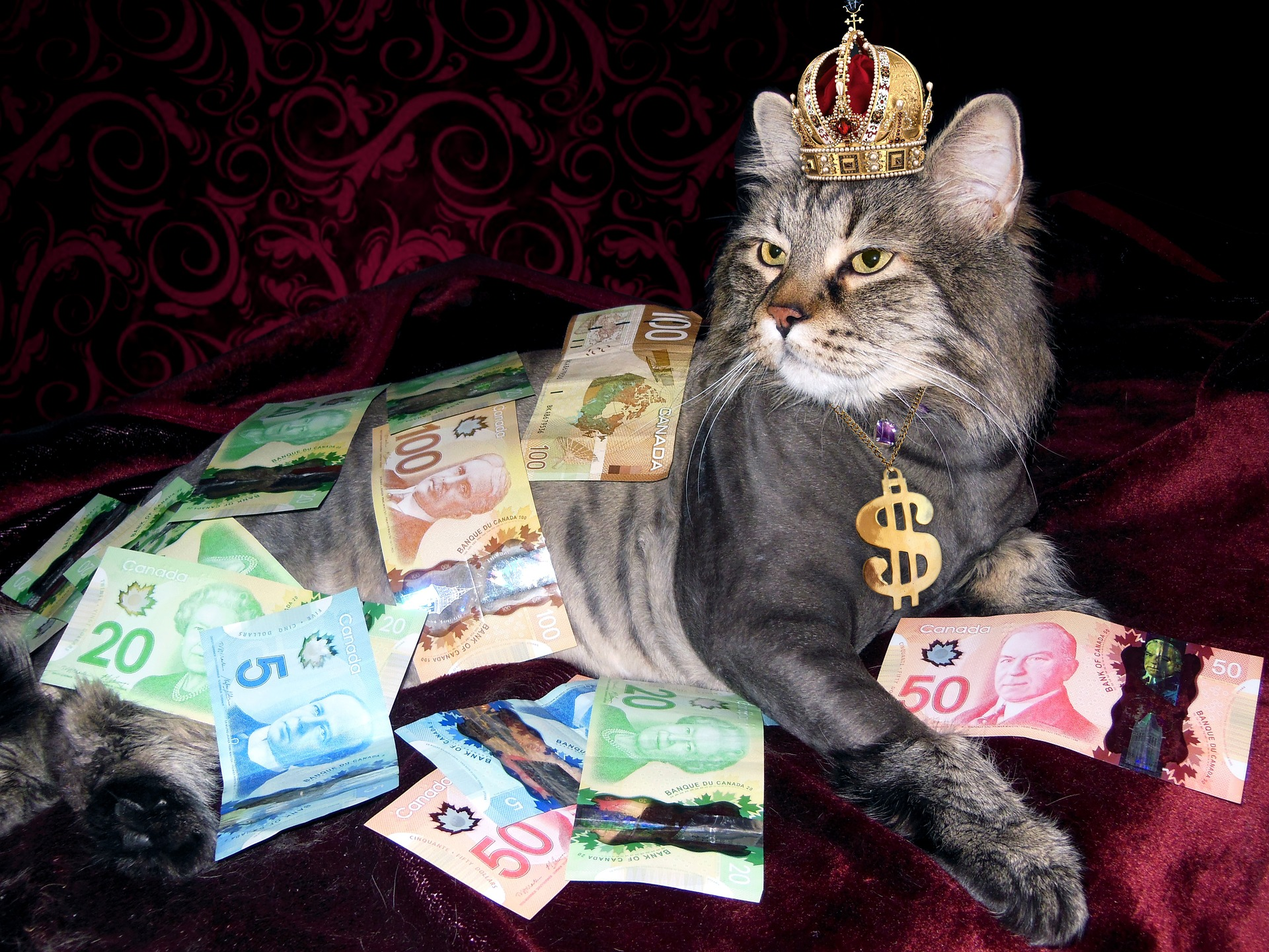
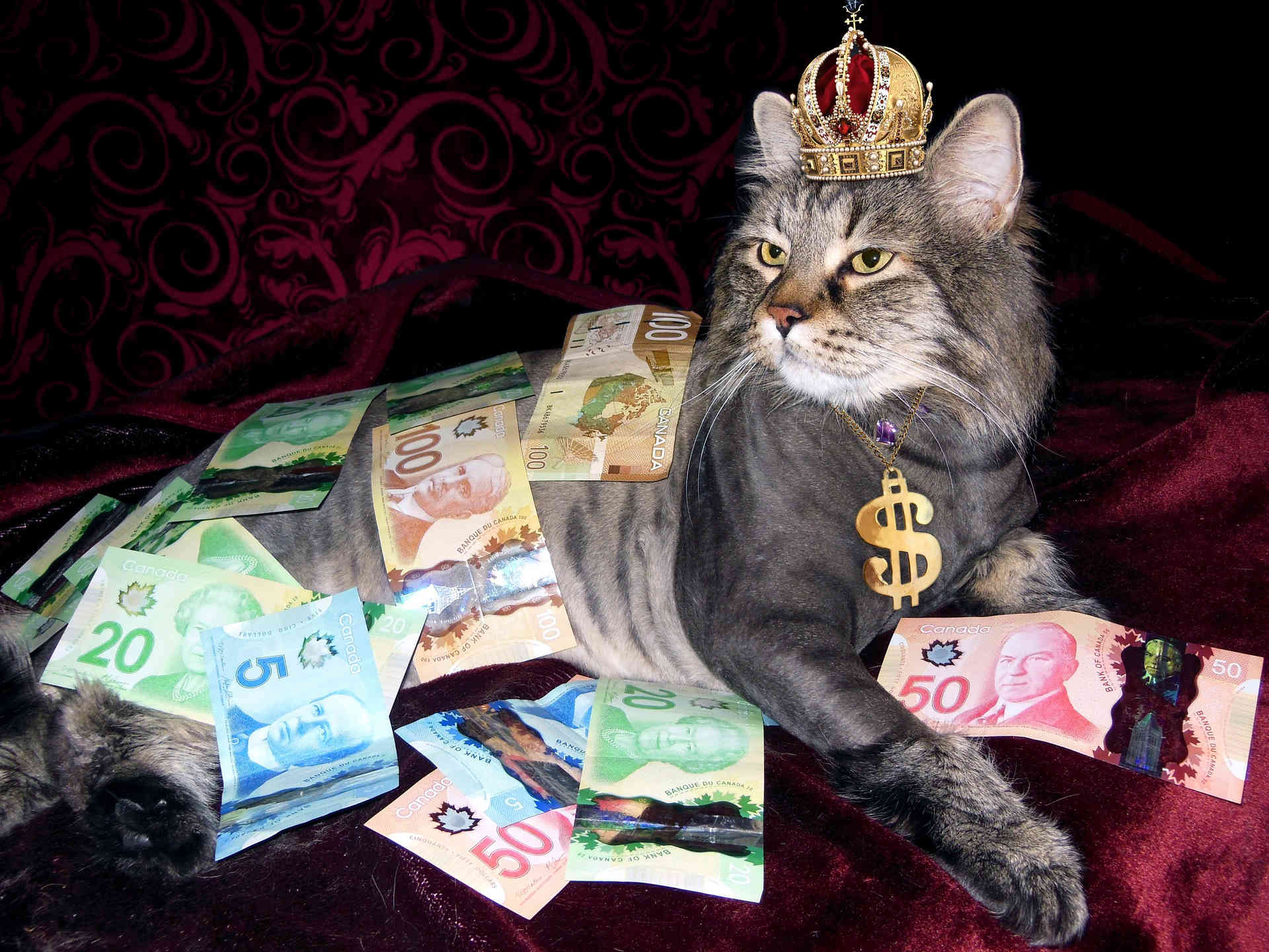
added images, hid coins in applications section

diff --git a/index.html b/index.html
@@ -52,44 +52,17 @@
       </section>
 
       <section>
-        <img src="styles/cat-money.jpg" alt="" class="cover">
+        <img src="styles/cat-money.jpg" alt="" class="cover" style="object-position: 65% 30%">
         <div class="cover" style="background-color: rgba(0, 0, 0, 0.6)">
           <h1 class="highlighted">What is money?</h1>
-          <!--
-<li>
-<ul janus-timeline janus-future="down">Durable</ul>
-<ul janus-timeline janus-future="down">Portable</ul>
-<ul janus-timeline janus-future="down">Fungible</ul>
-<ul janus-timeline janus-future="down">Divisible</ul>
-<ul janus-timeline janus-future="down">Scarce</ul>
-<ul janus-timeline janus-future="down">Acceptable</ul>
-</li>
--->
-          <!--
-<table class="yesnomaybe" style="font-size: 6vh; border-width: 1.5em 1em 0 0; margin: auto;">
-<thead>
-<tr>
-<th></th>
-<th><div>Durable</div></th>
-<th><div>Portable</div></th>
-<th><div>Divisible</div></th>
-<th><div>Fungible</div></th>
-<th><div>Scarce</div></th>
-</tr>
-</thead>
-<tbody>
-<tr>
-<th>Medium of<br>Exchange</th><td class="yes"></td><td class="yes"></td><td></td><td class="yes"></td><td></td>
-</tr>
-<tr>
-<th>Unit of<br>Account</th><td></td><td></td><td class="yes"></td><td class="yes"></td><td></td>
-</tr>
-<tr>
-<th>Store of<br>Value</th><td></td><td></td><td></td><td class="yes"></td><td class="yes"></td>
-</tr>
-</tbody>
-</table>
--->
+          <li>
+            <ul janus-timeline janus-future="down">Durable</ul>
+            <ul janus-timeline janus-future="down">Portable</ul>
+            <ul janus-timeline janus-future="down">Fungible</ul>
+            <ul janus-timeline janus-future="down">Divisible</ul>
+            <ul janus-timeline janus-future="down">Scarce</ul>
+            <ul janus-timeline janus-future="down">(Acceptable)</ul>
+          </li>
         </div>
         <div class="notes">
           <u>Medium of exchange:</u> portable, durable, fungible
@@ -217,12 +190,12 @@
         <div class="notes">Digital items can be duplicated; how can I send you something the way I do in the physical world? The people on the island of Yap had the right idea: use a ledger.</div>
       </section>
 
-      <section>
+      <section janus-past="flip-h">
         <img src="styles/heath.jpg" alt="" class="contain">
         <div class="notes">Sorry, wrong Ledger.</div>
       </section>
 
-      <section>
+      <section janus-future="flip-h">
         <table>
           <tbody style="text-align: right;">
             <tr>
@@ -258,7 +231,7 @@
 
       <section>
         <img src="styles/padlock.jpg" alt="" class="cover">
-        <h1 style="color: #f7931a; font-weight: 900; text-shadow: 0 0 2em black; -webkit-text-stroke: 0.025em white">Cryptography</h1>
+        <h1 class="highlighted">Cryptography</h1>
         <div class="notes">We can use public and private keys to control balances in an anonymous ledger.</div>
       </section>
 
@@ -323,9 +296,9 @@
         <h1>How to decentralize?</h1>
       </section>
 
-      <section janus-future="up" janus-past="up">
+      <section janus-future="up" janus-past="up" style="text-shadow: 0.1em 0.1em 0.2em black;">
         <img src="styles/oprah-giveaway.jpg" alt="" class="cover">
-        <h2>You get a ledger! You get a ledger!</h2>
+        <h2><em>You</em> get a ledger! <em>You</em> get a ledger!</h2>
         <h1>YOU ALL GET A LEDGER!!</h1>
         <div class="notes">Give <em>everyone</em> their own copy of the ledger. When you make a change to the ledger, send it out to everyone so all the ledgers stay up to date. Use cryptographic keys for privacy, and so that one person can't change another person's balance.</div>
       </section>
@@ -338,7 +311,7 @@
           Analogous problem:</div>
       </section>
 
-      <section style="text-shadow: 0 0 2em black;">
+      <section style="text-shadow: 0.1em 0.1em 0.2em black;">
         <img src="styles/byzantine-fresca.jpg" alt="" class="cover">
         <h2>the</h2>
         <h1><em>Byzantine Generals&rsquo;</em></h1>
@@ -356,8 +329,8 @@
       </section>
 
       <section>
-        <img src="styles/envelopes.jpg" alt="" class="cover">
-        <h1 style="padding-top: 3em; text-shadow: 0 0 2em black">Proof of Work</h1>
+        <img src="styles/coal-mining.jpg" alt="" class="cover" style="object-position: 50% 20%">
+        <h1 class="highlighted">Proof of Work</h1>
         <div class="notes">In 1997 this guy Adam Back came up with <em>HashCash</em>. The idea is that an email client would brute-force a certain amount of zeros as the output to a cryptographic hashing algorithm.</div>
       </section>
 
@@ -388,33 +361,41 @@
       </section>
 
       <section>
-        <h1 style="text-shadow: 0 0 2em black">Trusted Third Parties</h1>
+        <h1 style="text-shadow: 0.1em 0.1em 0.2em black">Trusted Third Parties</h1>
         <img janus-timeline janus-future="big" src="styles/no_sign.svg" alt="" class="contain">
       </section>
 
       <section>
+        <img src="styles/bank.jpg" alt="" class="cover">
+        <div class="cover" style="background-color: rgba(0,0,0,0.5)"></div>
         <h1>Central banks &amp;<br>payment services</h1>
         <div class="coins">
           <i class="cc BTC"></i>
           <i class="cc DASH"></i>
           <i class="cc XMR"></i>
           <i class="cc LTC"></i>
+          <i class="cc XRP"></i>
         </div>
         <div class="notes">Blockchains' value as money is at the heart of their incentives. Private blockchains that don't try to be money face serious challenges. The ability to transfer value globally without using or trusting a third party can save money and time, especially for traditionally burdensome cases like international remittance.</div>
       </section>
 
       <section>
+        <img src="styles/copyright-office.jpg" alt="" class="cover">
+        <div class="cover" style="background-color: rgba(0,0,0,0.5)"></div>
         <h1>Register of deeds,<br>copyright office</h1>
         <div class="coins">
           <i class="cc BTC"></i>
+          <i class="cc ETC"></i>
           <i class="cc FCT"></i>
           <i class="cc EMC"></i>
         </div>
         <div class="notes">Embedding a hash in the blockchain demonstrates an item's existence at point in the past.
-          (Bitcoin, Factoids, Emercoin)</div>
+          (Bitcoin [Stampery, others], Ethereum Classic [Stampery, others], Factoids, Emercoin)</div>
       </section>
 
       <section>
+        <img src="styles/clouds.jpg" alt="" class="cover">
+        <div class="cover" style="background-color: rgba(0,0,0,0.5)"></div>
         <h1>Cloud storage providers</h1>
         <div class="coins">
           <i class="cc MAID"></i>
@@ -426,6 +407,8 @@
       </section>
       
       <section>
+        <img src="styles/servers.jpg" alt="" class="cover">
+        <div class="cover" style="background-color: rgba(0,0,0,0.5)"></div>
         <h1>DNS providers</h1>
         <div class="coins">
           <i class="cc NMC"></i>
@@ -435,23 +418,30 @@
       </section>
       
       <section>
+        <img src="styles/user%20faces.png" alt="" class="contain">
+        <div class="cover" style="background-color: rgba(0,0,0,0.5)"></div>
         <h1>Social networks</h1>
         <div class="coins">
           <i class="cc STEEM"></i>
-          <i class="cc SYN"></i>
+          <i class="cc AMP"></i>
+          <i class="cc ETH"></i>
         </div>
-        <div class="notes">(Steem, Synereo)</div>
+        <div class="notes">(Steem, Synereo, Akasha [using Ethereum])</div>
       </section>
       
       <section>
+        <img src="styles/music.jpg" alt="" class="cover">
+        <div class="cover" style="background-color: rgba(0,0,0,0.5)"></div>
         <h1>Media rights &amp;<br>compensation</h1>
         <div class="coins">
-          <i class="cc ETC"></i>
+          <i class="cc ETC"></i> <i class="cc LBC"></i>
         </div>
-        <div class="notes">Ethereum classic</div>
+        <div class="notes">(UJO Music using Ethereum, LBRY)</div>
       </section>
       
       <section>
+        <img src="styles/fingerprint.jpg" alt="" class="cover">
+        <div class="cover" style="background-color: rgba(0,0,0,0.5)"></div>
         <h1>Identity providers</h1>
         <div class="coins">
           <i class="cc BTC"></i>
@@ -487,6 +477,9 @@
           <li><a href="https://www.flickr.com/photos/106853342@N04/10721964235"><img src="styles/shell-money.jpg" alt="" class="thumbnail">Australian DFAT photo library, Flickr</a></li>
           <li><a href="https://www.flickr.com/photos/ammichaels/7159593410"><img src="styles/hashbrowns.jpg" alt="" class="thumbnail">based on image by cheeseslave, Flickr</a></li>
           <li><a href="https://www.flickr.com/photos/43896901@N00/6102490914"><img src="styles/gold-panning.jpg" alt="" class="thumbnail">Jean-François Gornet, Flickr</a></li>
+          <li><a href="https://commons.wikimedia.org/wiki/File:Second_Bank_of_the_United_States_South_side.jpg"><img src="styles/bank.jpg" alt="" class="thumbnail">Wikimedia Commons</a></li>
+          <li><a href="https://www.flickr.com/photos/28581681@N04/4256458866"><img src="styles/clouds.jpg" alt="" class="thumbnail">leolintang, Flickr</a></li>
+          <li>Public domain images from <a href="https://pixabay.com">Pixabay</a> and <a href="https://commons.wikimedia.org/wiki/Main_Page">Wikimedia Commons</a></li>
           <li>Emoji art supplied by <a href="http://emojione.com/">EmojiOne</a></li>
           <li>Cryptocurrency icons by <a href="http://labs.allienworks.net/icons/cryptocoins/">Allienworks</a></li>
         </ul>

diff --git a/styles/main.css b/styles/main.css
@@ -286,6 +286,7 @@ section {
   background-color: black;
   transition: transform ease 0.5s, opacity ease 0.5s, visibility step-end 0.5s;
   transform-origin: 50% 50%;
+  perspective: 100vmax;
 }
 
 /* live-coding */
@@ -468,6 +469,17 @@ body:not(.show-notes) [janus-timeline='past'][janus-past='right'], body:not(.sho
   visibility: hidden;
   pointer-events: none;
   z-index: 2;
+}
+
+body:not(.show-notes) [janus-timeline='past'][janus-past='flip-h'], body:not(.show-notes) [janus-timeline='future'][janus-future='flip-h'] {
+  transform: translate3d(0, 0, -10vmin) rotateY(-180deg);
+  opacity: 1;
+  visibility: hidden;
+  pointer-events: none;
+  z-index: 2;
+}
+body:not(.show-notes) [janus-timeline='future'][janus-future='flip-h'] {
+  transform: translate3d(0, 0, -10vmin) rotateY(180deg);
 }
 
 section[janus-timeline='past'], /* default past-tense state */

diff --git a/styles/blockchain.css b/styles/blockchain.css
@@ -15,11 +15,22 @@
 }
 
 .highlighted {
-  background-color: #f7931a;
+  position: relative;
   color: black;
   display: block;
   padding: 0.125em 0.25em;
   margin: 0.25em auto;
+}
+.highlighted:before {
+  content: '';
+  position: absolute;
+  top: 0;
+  right: 0;
+  bottom: 0;
+  left: 0;
+  background-color: #FF0;
+  z-index: -1;
+  opacity: 0.8;
 }
 
 table.yesnomaybe {
@@ -57,6 +68,7 @@ table.yesnomaybe .maybe {
 }
 
 .coins {
+  display: none;
   margin-top: 0.5em;
 }
 
